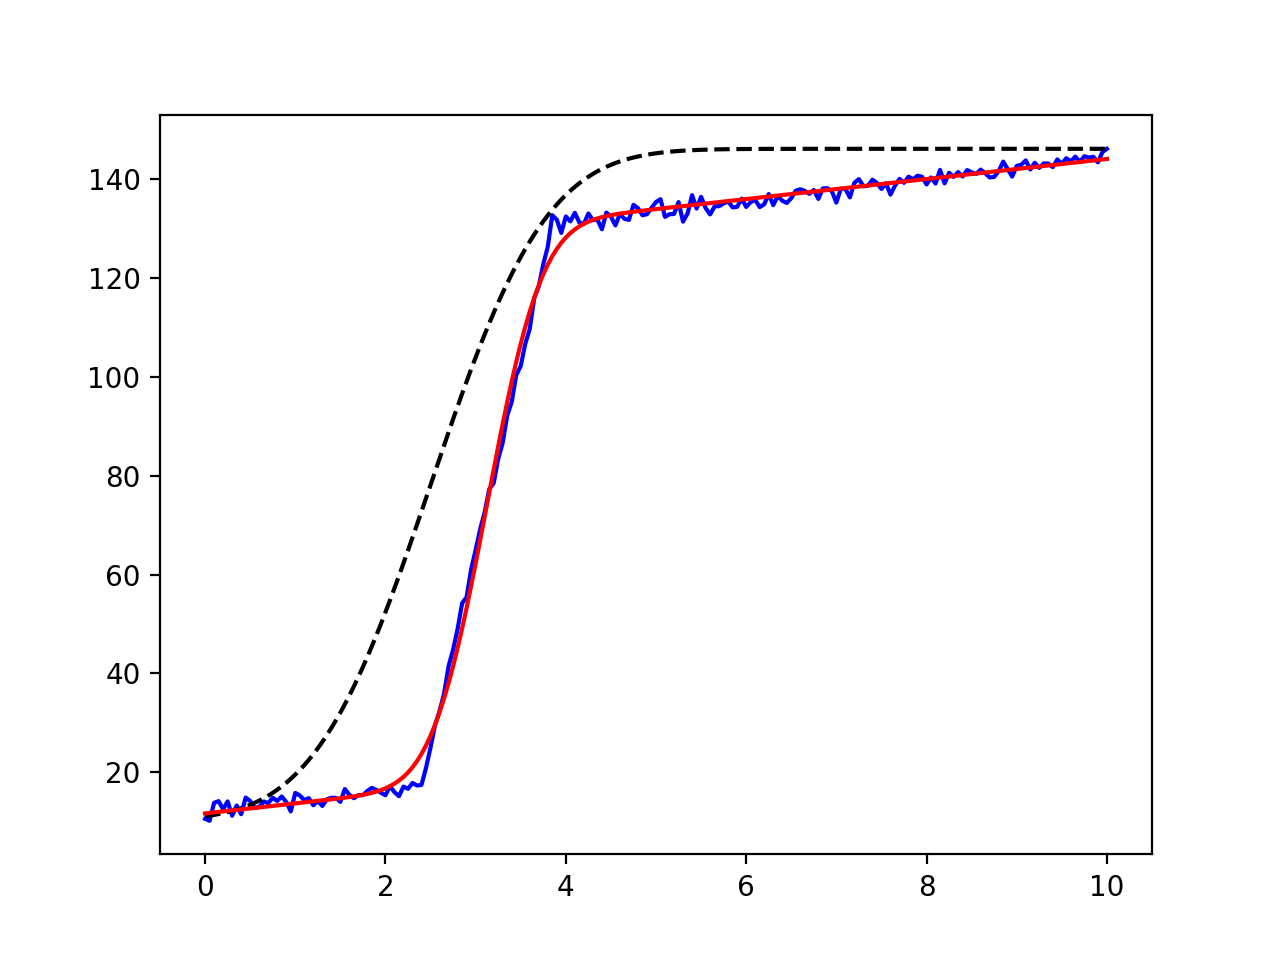
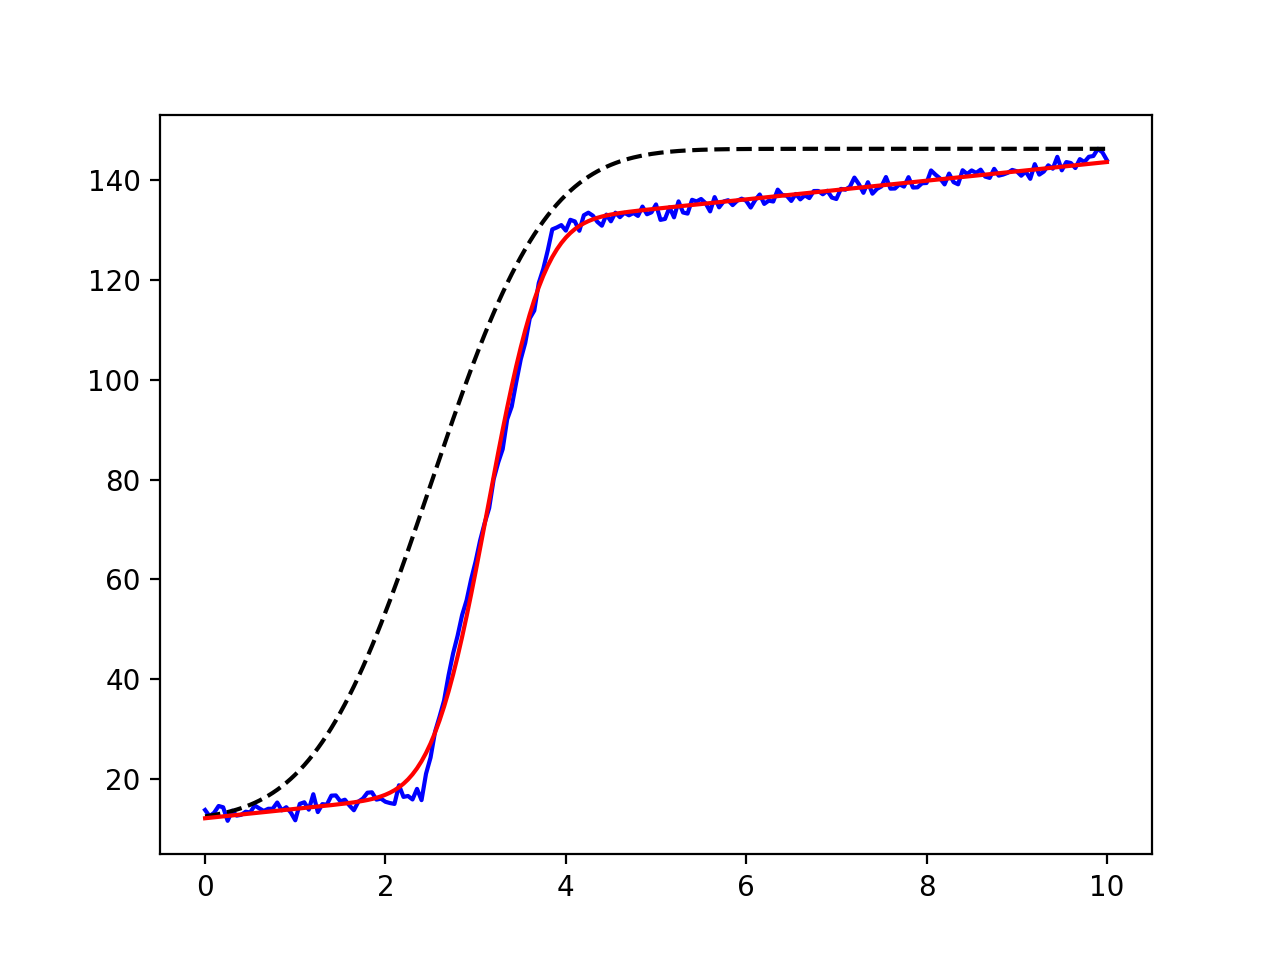
DOC: set random.seed for reproducible examples in the documentation.
Update the fit_report and figures in the documentation accordingly.

diff --git a/examples/doc_builtinmodels_stepmodel.py b/examples/doc_builtinmodels_stepmodel.py
@@ -10,6 +10,7 @@ x = np.linspace(0, 10, 201)
 y = np.ones_like(x)
 y[:48] = 0.0
 y[48:77] = np.arange(77-48)/(77.0-48)
+np.random.seed(0)
 y = 110.2 * (y + 9e-3*np.random.randn(len(x))) + 12.0 + 2.22*x
 
 step_mod = StepModel(form='erf', prefix='step_')

diff --git a/examples/doc_model_composite.py b/examples/doc_model_composite.py
@@ -11,6 +11,7 @@ from lmfit.lineshapes import gaussian, step
 npts = 201
 x = np.linspace(0, 10, npts)
 y = step(x, amplitude=12.5, center=4.5, sigma=0.88, form='erf')
+np.random.seed(0)
 y = y + np.random.normal(size=npts, scale=0.35)
 
 

diff --git a/doc/builtin_models.rst b/doc/builtin_models.rst
@@ -502,29 +502,29 @@ results, which gives::
         (Model(step, prefix='step_', form='erf') + Model(linear, prefix='line_'))
     [[Fit Statistics]]
         # fitting method   = leastsq
-        # function evals   = 51
+        # function evals   = 49
         # data points      = 201
         # variables        = 5
-        chi-square         = 526.476967
-        reduced chi-square = 2.68610698
-        Akaike info crit   = 203.543438
-        Bayesian info crit = 220.059962
+        chi-square         = 593.709622
+        reduced chi-square = 3.02913072
+        Akaike info crit   = 227.700173
+        Bayesian info crit = 244.216698
     [[Variables]]
-        line_intercept:  11.6336538 +/- 0.25986140 (2.23%) (init = 11.41635)
-        line_slope:      2.06801103 +/- 0.08730814 (4.22%) (init = 0)
-        step_sigma:      0.66708191 +/- 0.01028666 (1.54%) (init = 1.428571)
-        step_amplitude:  111.878321 +/- 0.61242795 (0.55%) (init = 133.7451)
-        step_center:     3.12524684 +/- 0.00487627 (0.16%) (init = 2.5)
+        line_intercept:  12.0964833 +/- 0.27606235 (2.28%) (init = 11.58574)
+        line_slope:      1.87164655 +/- 0.09318714 (4.98%) (init = 0)
+        step_sigma:      0.67392841 +/- 0.01091168 (1.62%) (init = 1.428571)
+        step_center:     3.13494792 +/- 0.00516615 (0.16%) (init = 2.5)
+        step_amplitude:  112.858376 +/- 0.65392949 (0.58%) (init = 134.7378)
     [[Correlations]] (unreported correlations are < 0.100)
-        C(line_slope, step_amplitude)     = -0.878
-        C(step_sigma, step_amplitude)     =  0.561
-        C(line_slope, step_sigma)         = -0.454
-        C(line_intercept, step_center)    =  0.425
-        C(line_intercept, line_slope)     = -0.308
-        C(line_slope, step_center)        = -0.233
-        C(line_intercept, step_sigma)     = -0.138
-        C(line_intercept, step_amplitude) = -0.121
-        C(step_amplitude, step_center)    =  0.108
+        C(line_slope, step_amplitude)     = -0.879
+        C(step_sigma, step_amplitude)     =  0.564
+        C(line_slope, step_sigma)         = -0.457
+        C(line_intercept, step_center)    =  0.427
+        C(line_intercept, line_slope)     = -0.309
+        C(line_slope, step_center)        = -0.234
+        C(line_intercept, step_sigma)     = -0.137
+        C(line_intercept, step_amplitude) = -0.117
+        C(step_center, step_amplitude)    =  0.109
 
 with a plot of
 

diff --git a/doc/model.rst b/doc/model.rst
@@ -980,24 +980,24 @@ binary operator.  A full script using this technique is here:
 which prints out the results::
 
     [[Model]]
-        (Model(jump) <function convolve at 0x10480e598> Model(gaussian))
+        (Model(jump) <function convolve at 0x114e6e1e0> Model(gaussian))
     [[Fit Statistics]]
         # fitting method   = leastsq
-        # function evals   = 23
+        # function evals   = 25
         # data points      = 201
         # variables        = 3
-        chi-square         = 21.6932855
-        reduced chi-square = 0.10956205
-        Akaike info crit   = -441.486726
-        Bayesian info crit = -431.576811
+        chi-square         = 24.7562335
+        reduced chi-square = 0.12503148
+        Akaike info crit   = -414.939746
+        Bayesian info crit = -405.029832
     [[Variables]]
         mid:        5 (fixed)
-        center:     4.52495463 +/- 0.00937255 (0.21%) (init = 3.5)
-        sigma:      0.62328669 +/- 0.01297258 (2.08%) (init = 1.5)
-        amplitude:  0.62362920 +/- 0.00179096 (0.29%) (init = 1)
+        sigma:      0.59576118 +/- 0.01348582 (2.26%) (init = 1.5)
+        center:     4.50853671 +/- 0.00973231 (0.22%) (init = 3.5)
+        amplitude:  0.62508459 +/- 0.00189732 (0.30%) (init = 1)
     [[Correlations]] (unreported correlations are < 0.100)
-        C(center, amplitude) =  0.338
-        C(sigma, amplitude)  =  0.276
+        C(center, amplitude) =  0.329
+        C(sigma, amplitude)  =  0.268
 
 
 and shows the plots:
